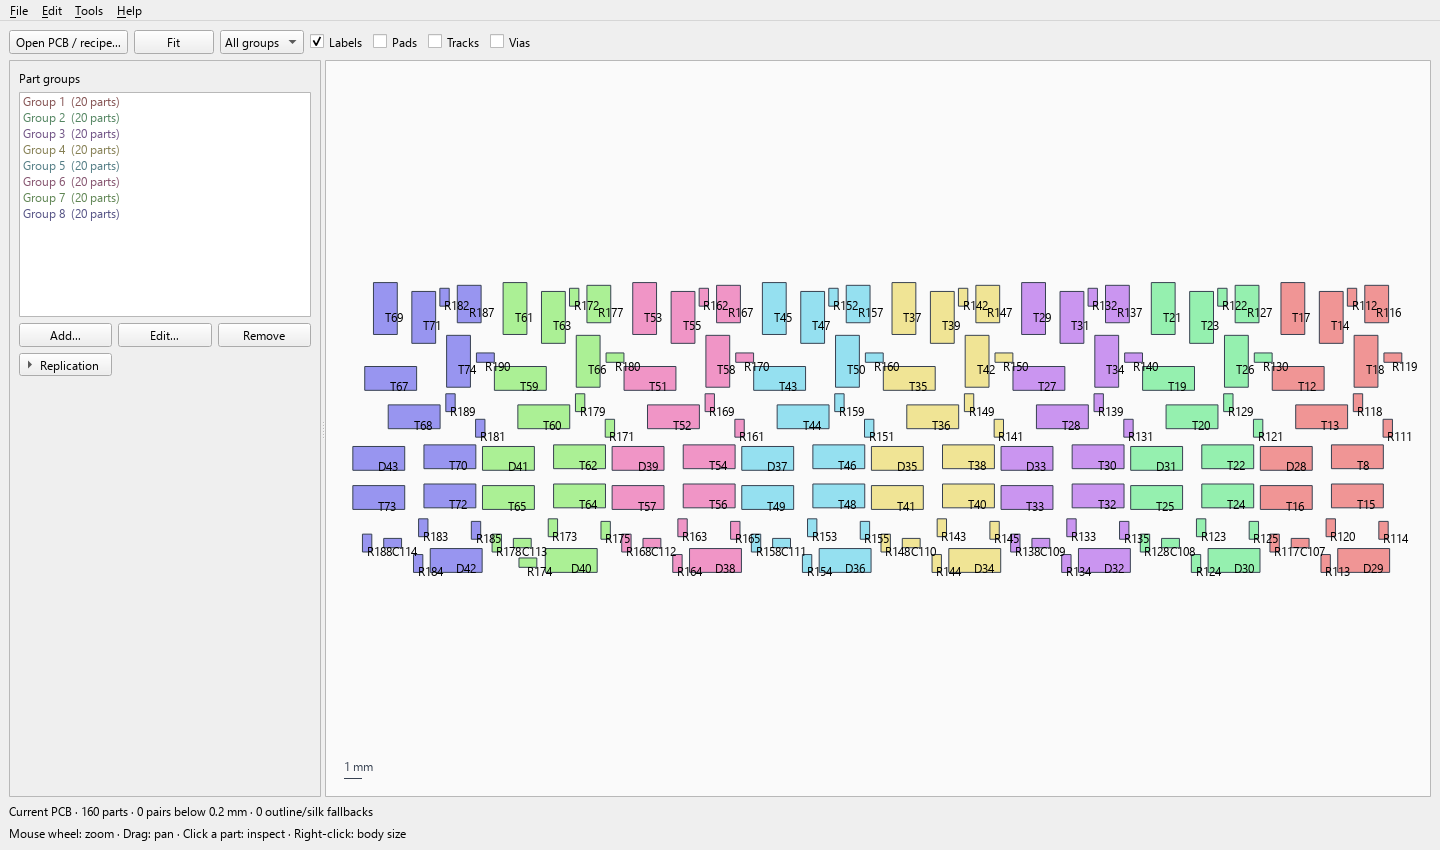
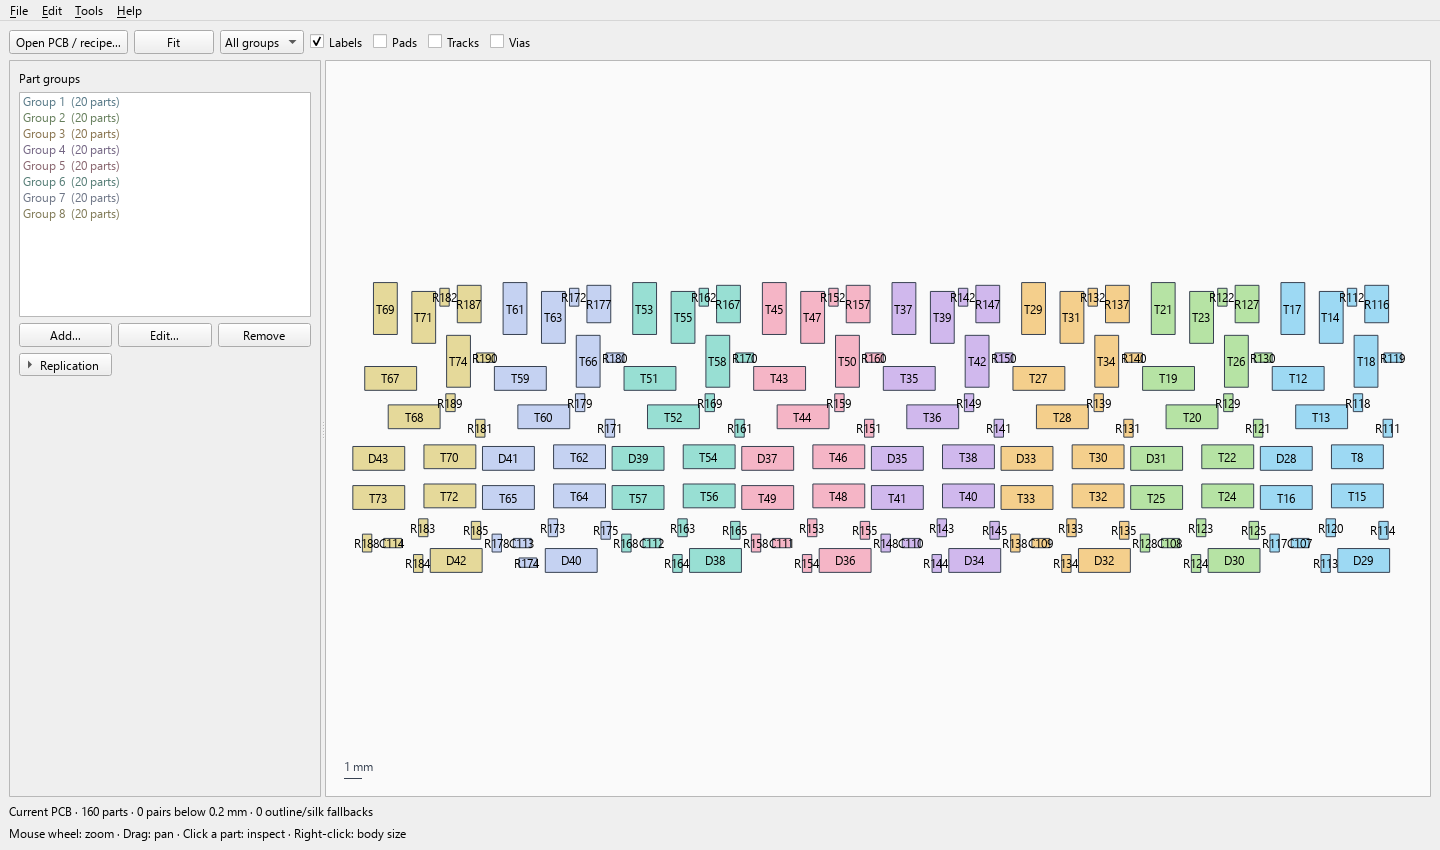
Match reference viewer colors and center part labels

Changed region(s): [[0.2188, 0.3365, 0.9688, 0.6729], [0.0312, 0.1529, 0.0938, 0.2447]]

diff --git a/PCB_Layout/layout_viewer.py b/PCB_Layout/layout_viewer.py
@@ -24,8 +24,14 @@ from PySide6.QtWidgets import (QApplication, QMainWindow, QWidget, QVBoxLayout, 
     QScrollArea, QInputDialog)
 
 
+GROUP_COLORS = ('#9dd9f3', '#b6e3a4', '#f4cf8c', '#d0b8ed',
+                '#f5b5c6', '#98dfd3', '#c5d2f2', '#e5d99a')
+
+
 def color(index):
-    return QColor.fromHsvF((index*.381966) % 1,.38,.94)
+    if index < len(GROUP_COLORS):
+        return QColor(GROUP_COLORS[index])
+    return QColor.fromHsvF((index*.381966) % 1,.30,.95)
 
 
 def spin(value, minimum=-100000, maximum=100000, decimals=3):
@@ -553,6 +559,8 @@ class Viewer(QMainWindow):
                     if self.checks['labels'].isChecked():
                         text = scene.addSimpleText(ref,QFont('Segoe UI' if sys.platform == 'win32' else '',9)); text.setPos(part.x,part.y)
                         text.setFlag(QGraphicsItem.ItemIgnoresTransformations); text.setData(0,ref); text.setZValue(4)
+                        center = text.boundingRect().center()
+                        text.setTransform(QTransform().translate(-center.x(),-center.y()))
             no_geometry = sum(o == 'No body geometry' for o in origins.values()); fallback = sum(o != 'Size database' for o in origins.values())
             total_parts = sum(len(g) for g in groups)
             visible_parts = sum(len(g) for i,g in enumerate(groups) if selected_group < 0 or i == selected_group)
